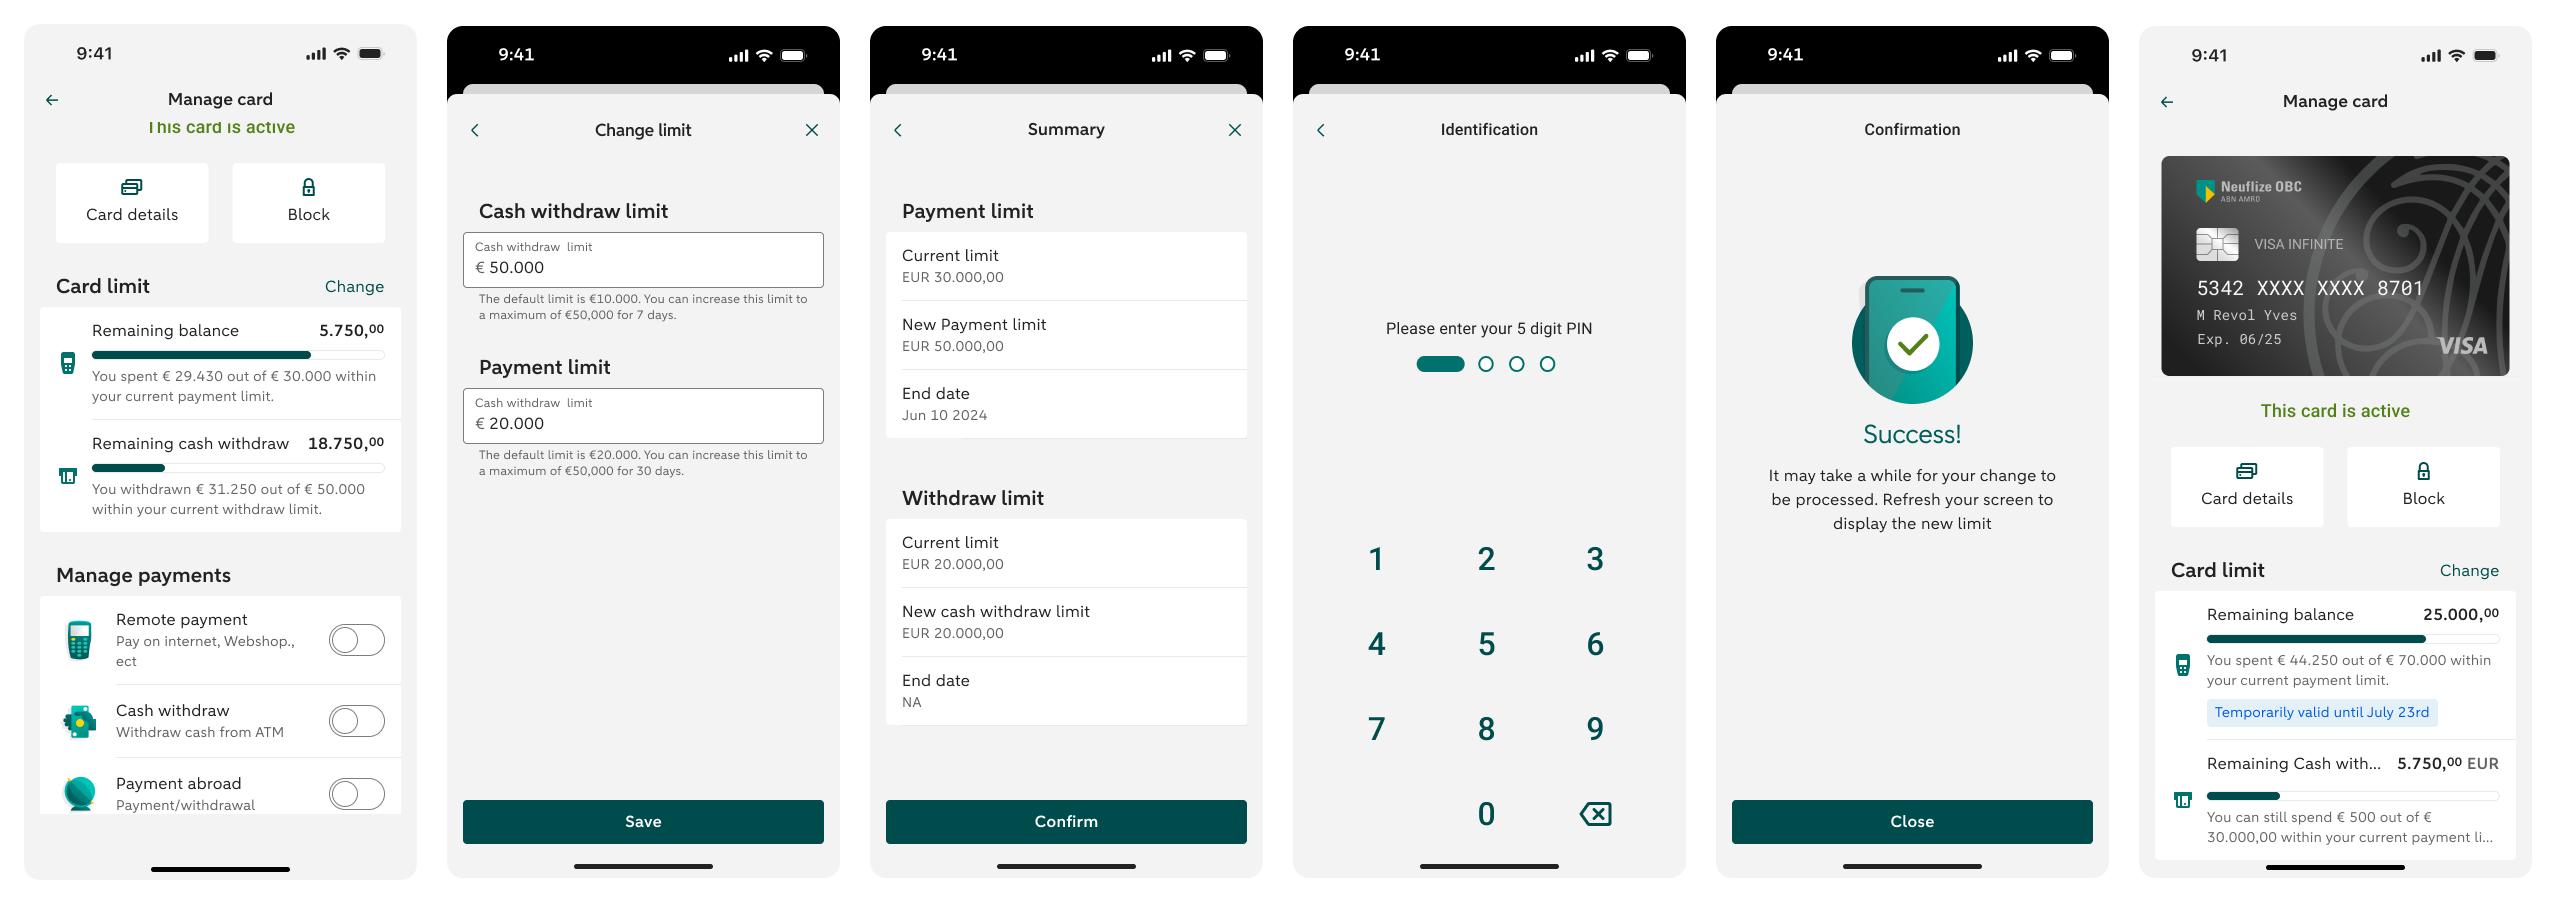
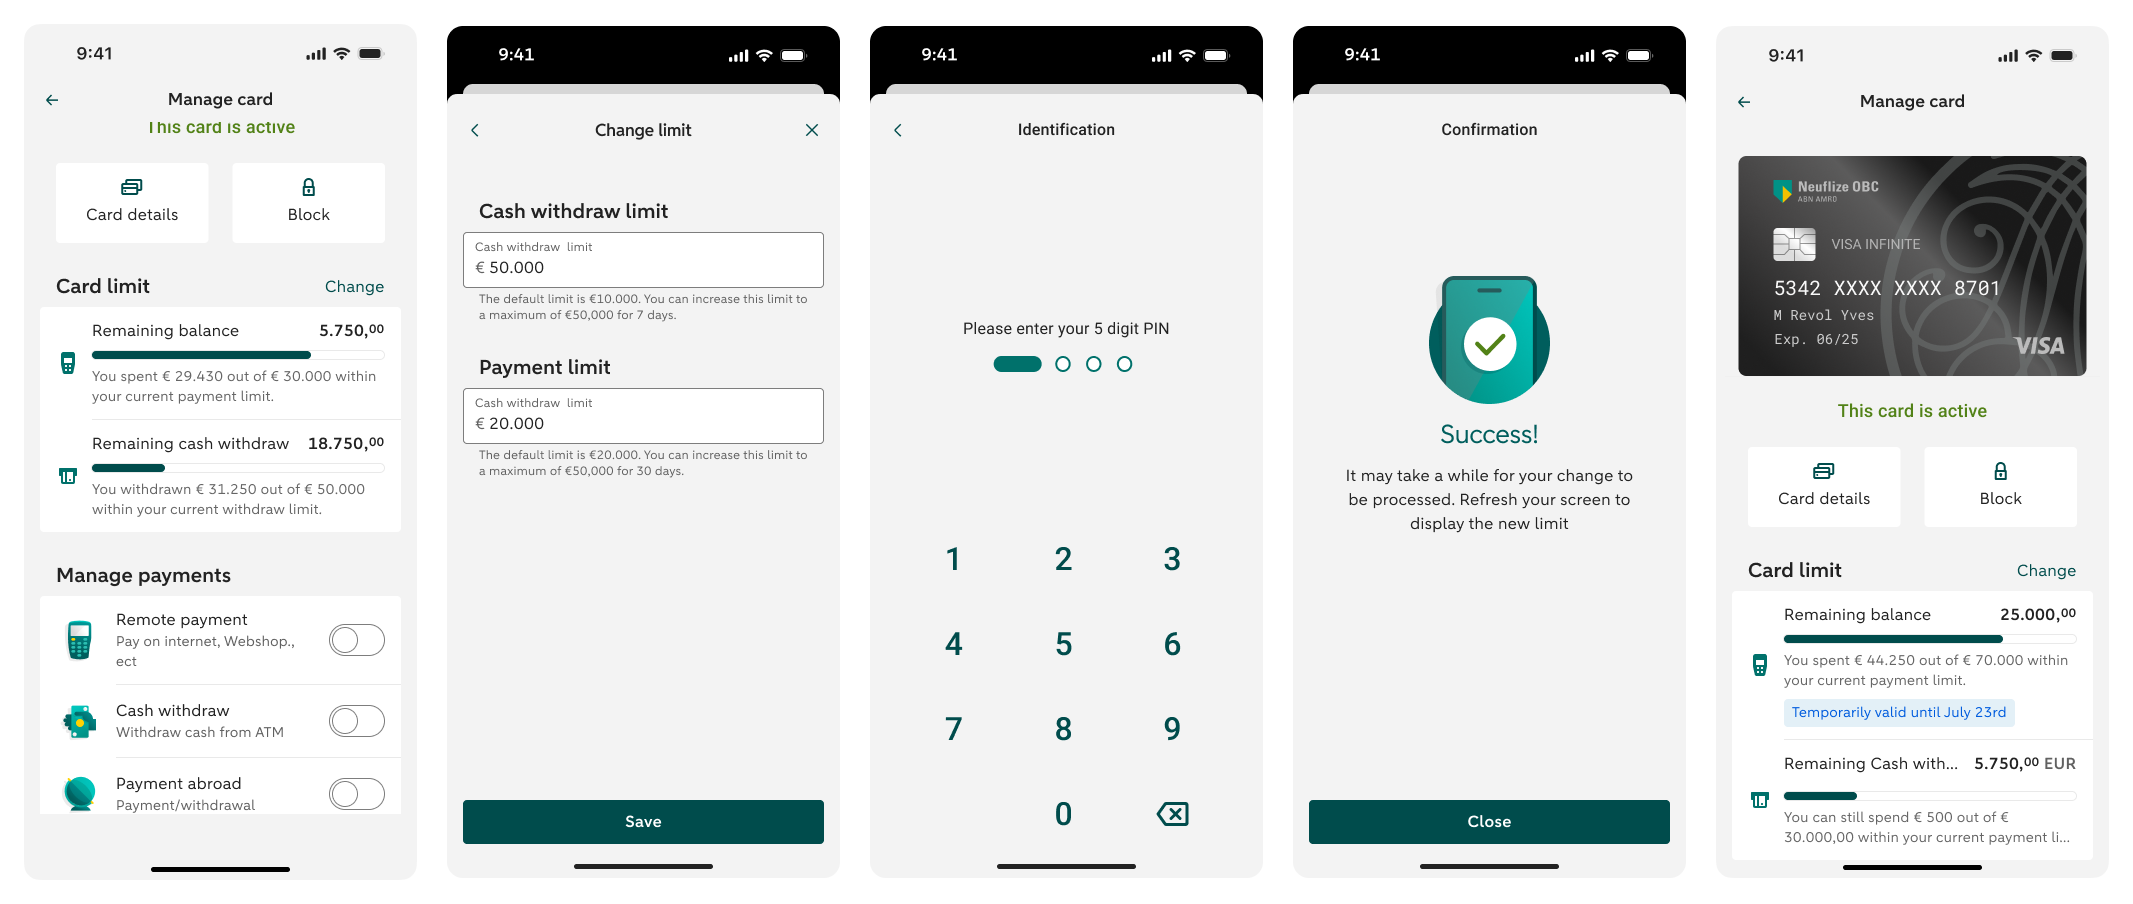
images

diff --git a/src/case-studies/cards/IMAGES.md b/src/case-studies/cards/IMAGES.md
@@ -21,7 +21,7 @@ Map from the screens you already exported → the filename to save it as:
 | `09-manage-payments.png` | The **Manage payments** toggles (Remote payment / Cash withdraw / Payment abroad) | Decision 03 · Security | `DecisionBlock` media |
 | `10-limit-change-final.png` | The final **Limit Change** flow (6 screens on dark bg: amount → summary → PIN → success) | Decision 04 · Compliance | `DecisionBlock` media |
 | `11-block-card.png` | The **Block Card** screens (confirm sheet + blocked state with padlock + Unblock) | Decision 05 · Interaction | `DecisionBlock` media |
-| `13-emerald-cards.png` | The **card family** art (Visa Classic / Infinite / Business / Premier) | Built on Emerald | `ImageFigure` |
+| `13-card-designs.png` | The **card designs** (Visa Classic / Infinite / Business / Premier / Gold) — digital cards replicating the physical cards | Built on Emerald | `ImageFigure` |
 | `14-delete-card.png` | The final **Delete Card** flow (6 screens: reason → replacement/PIN → confirm details → summary → success) | What we kept with a human | `ImageFigure` (wide) |
 
 Notes:
